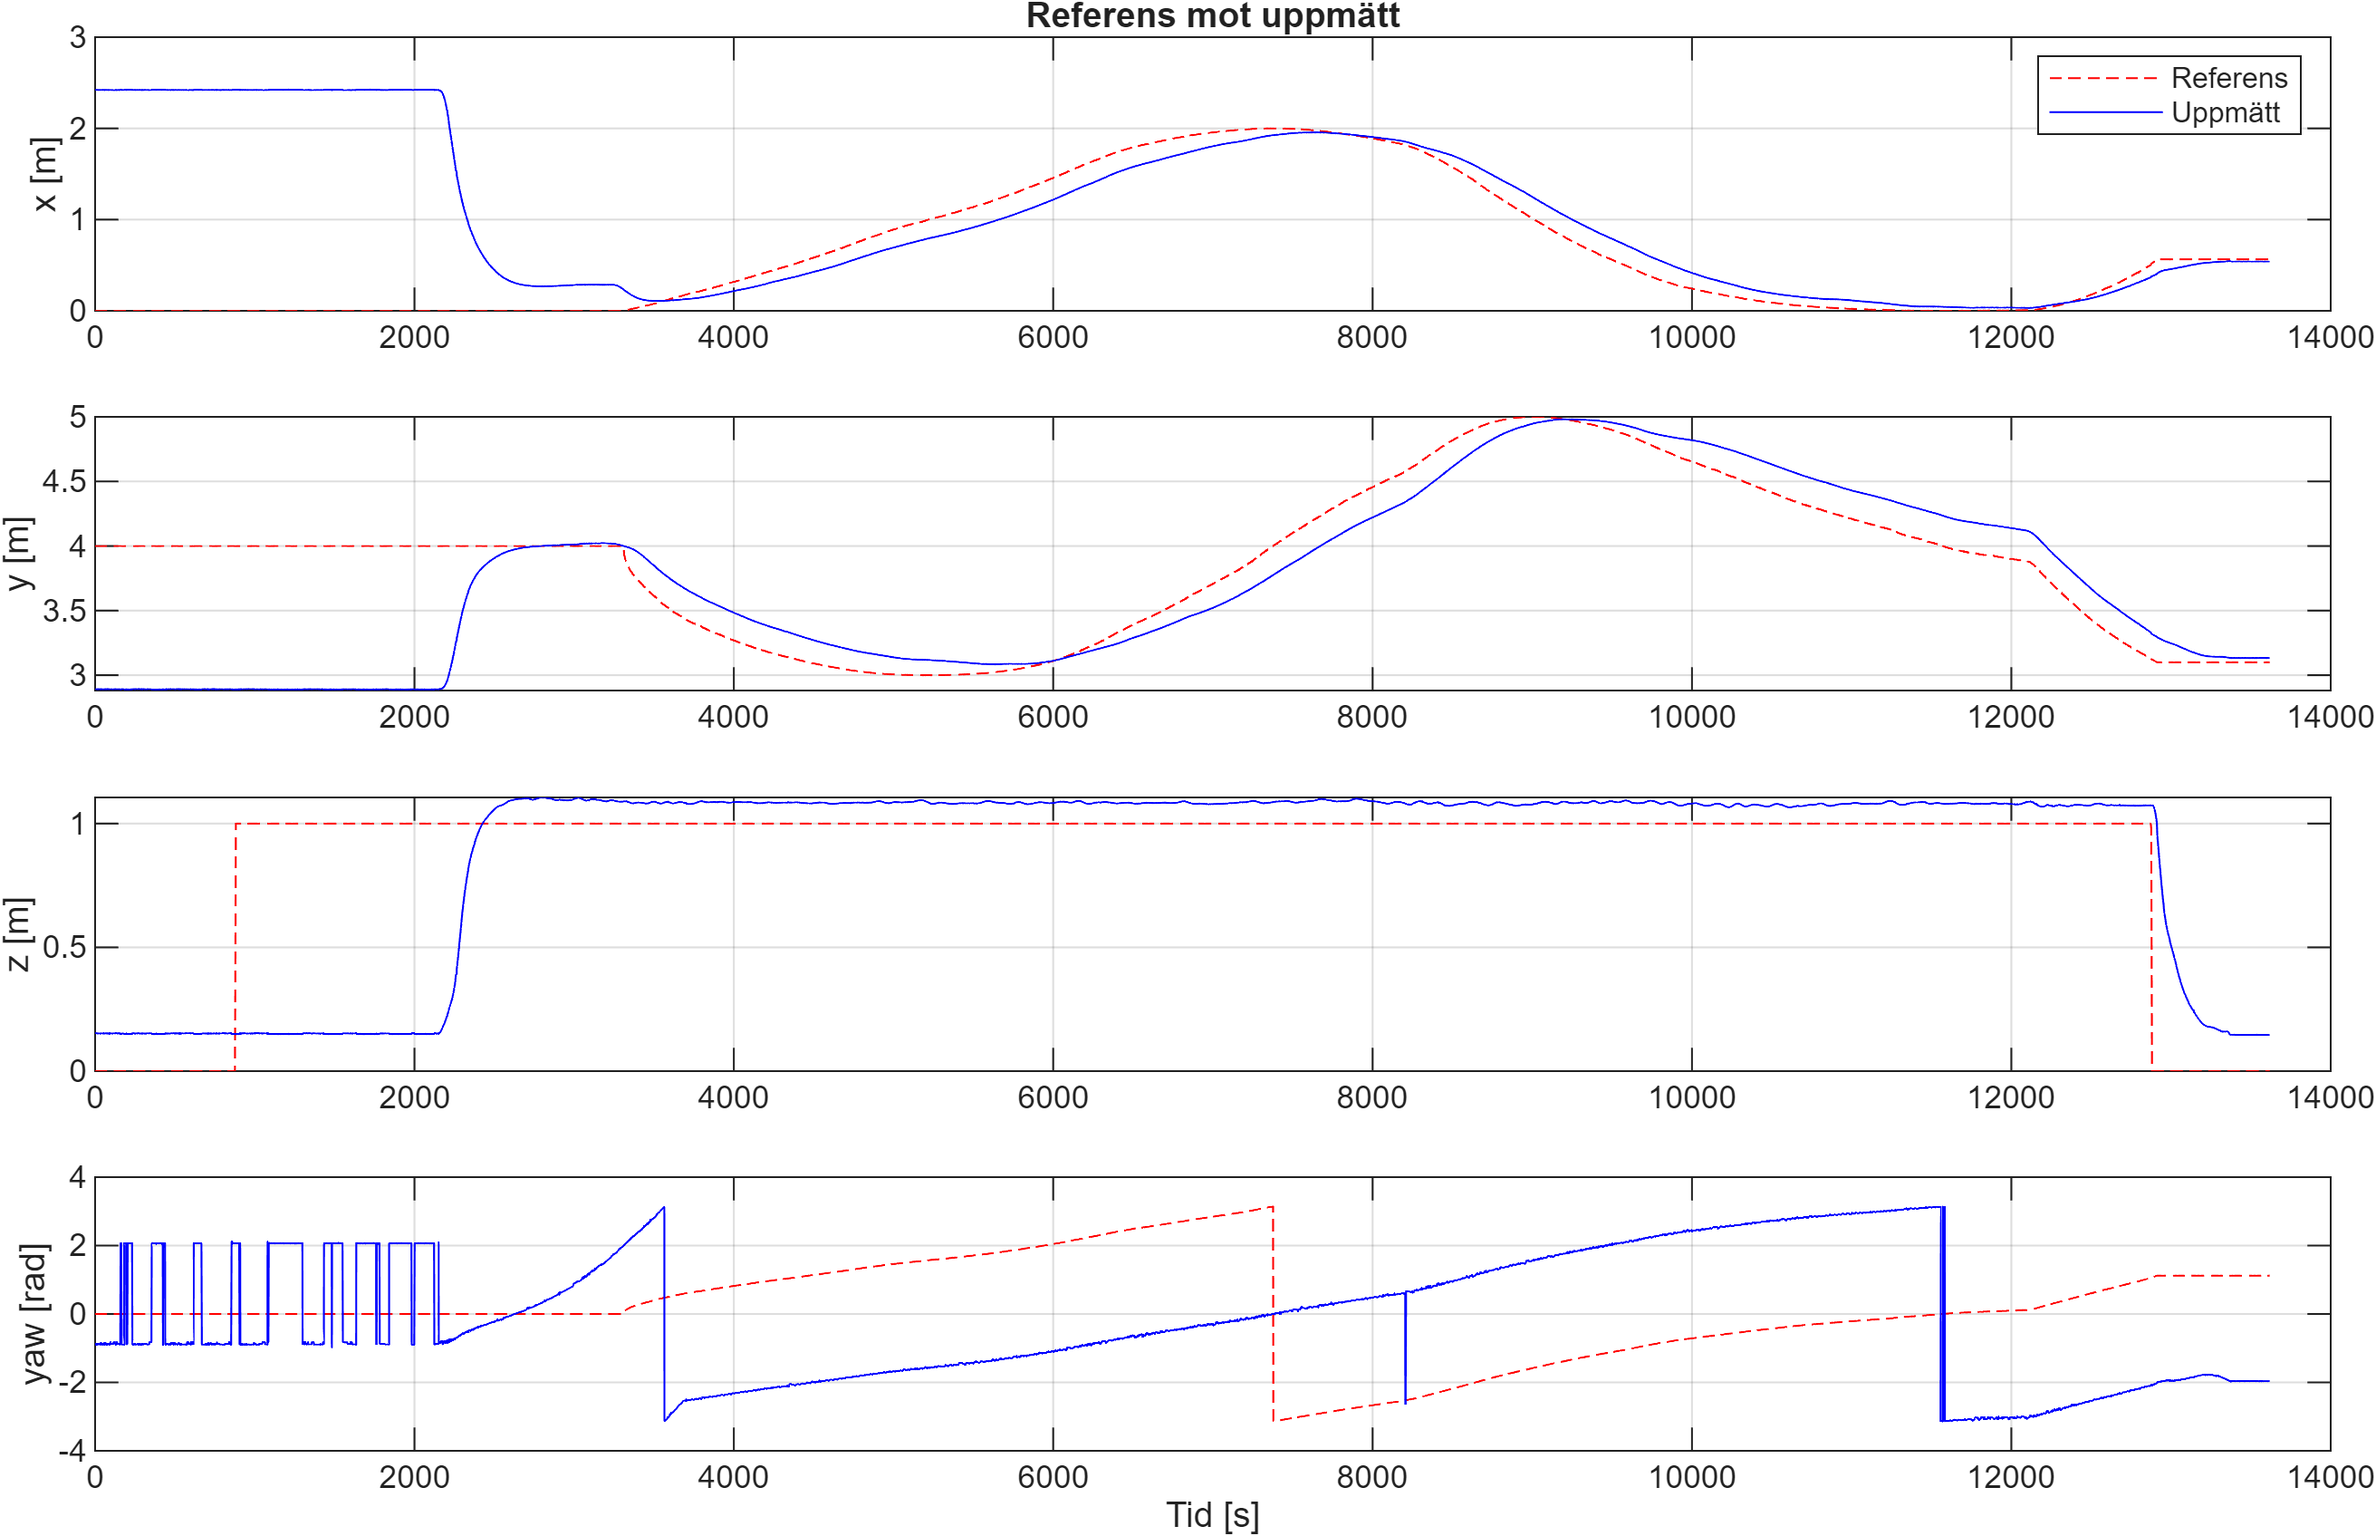
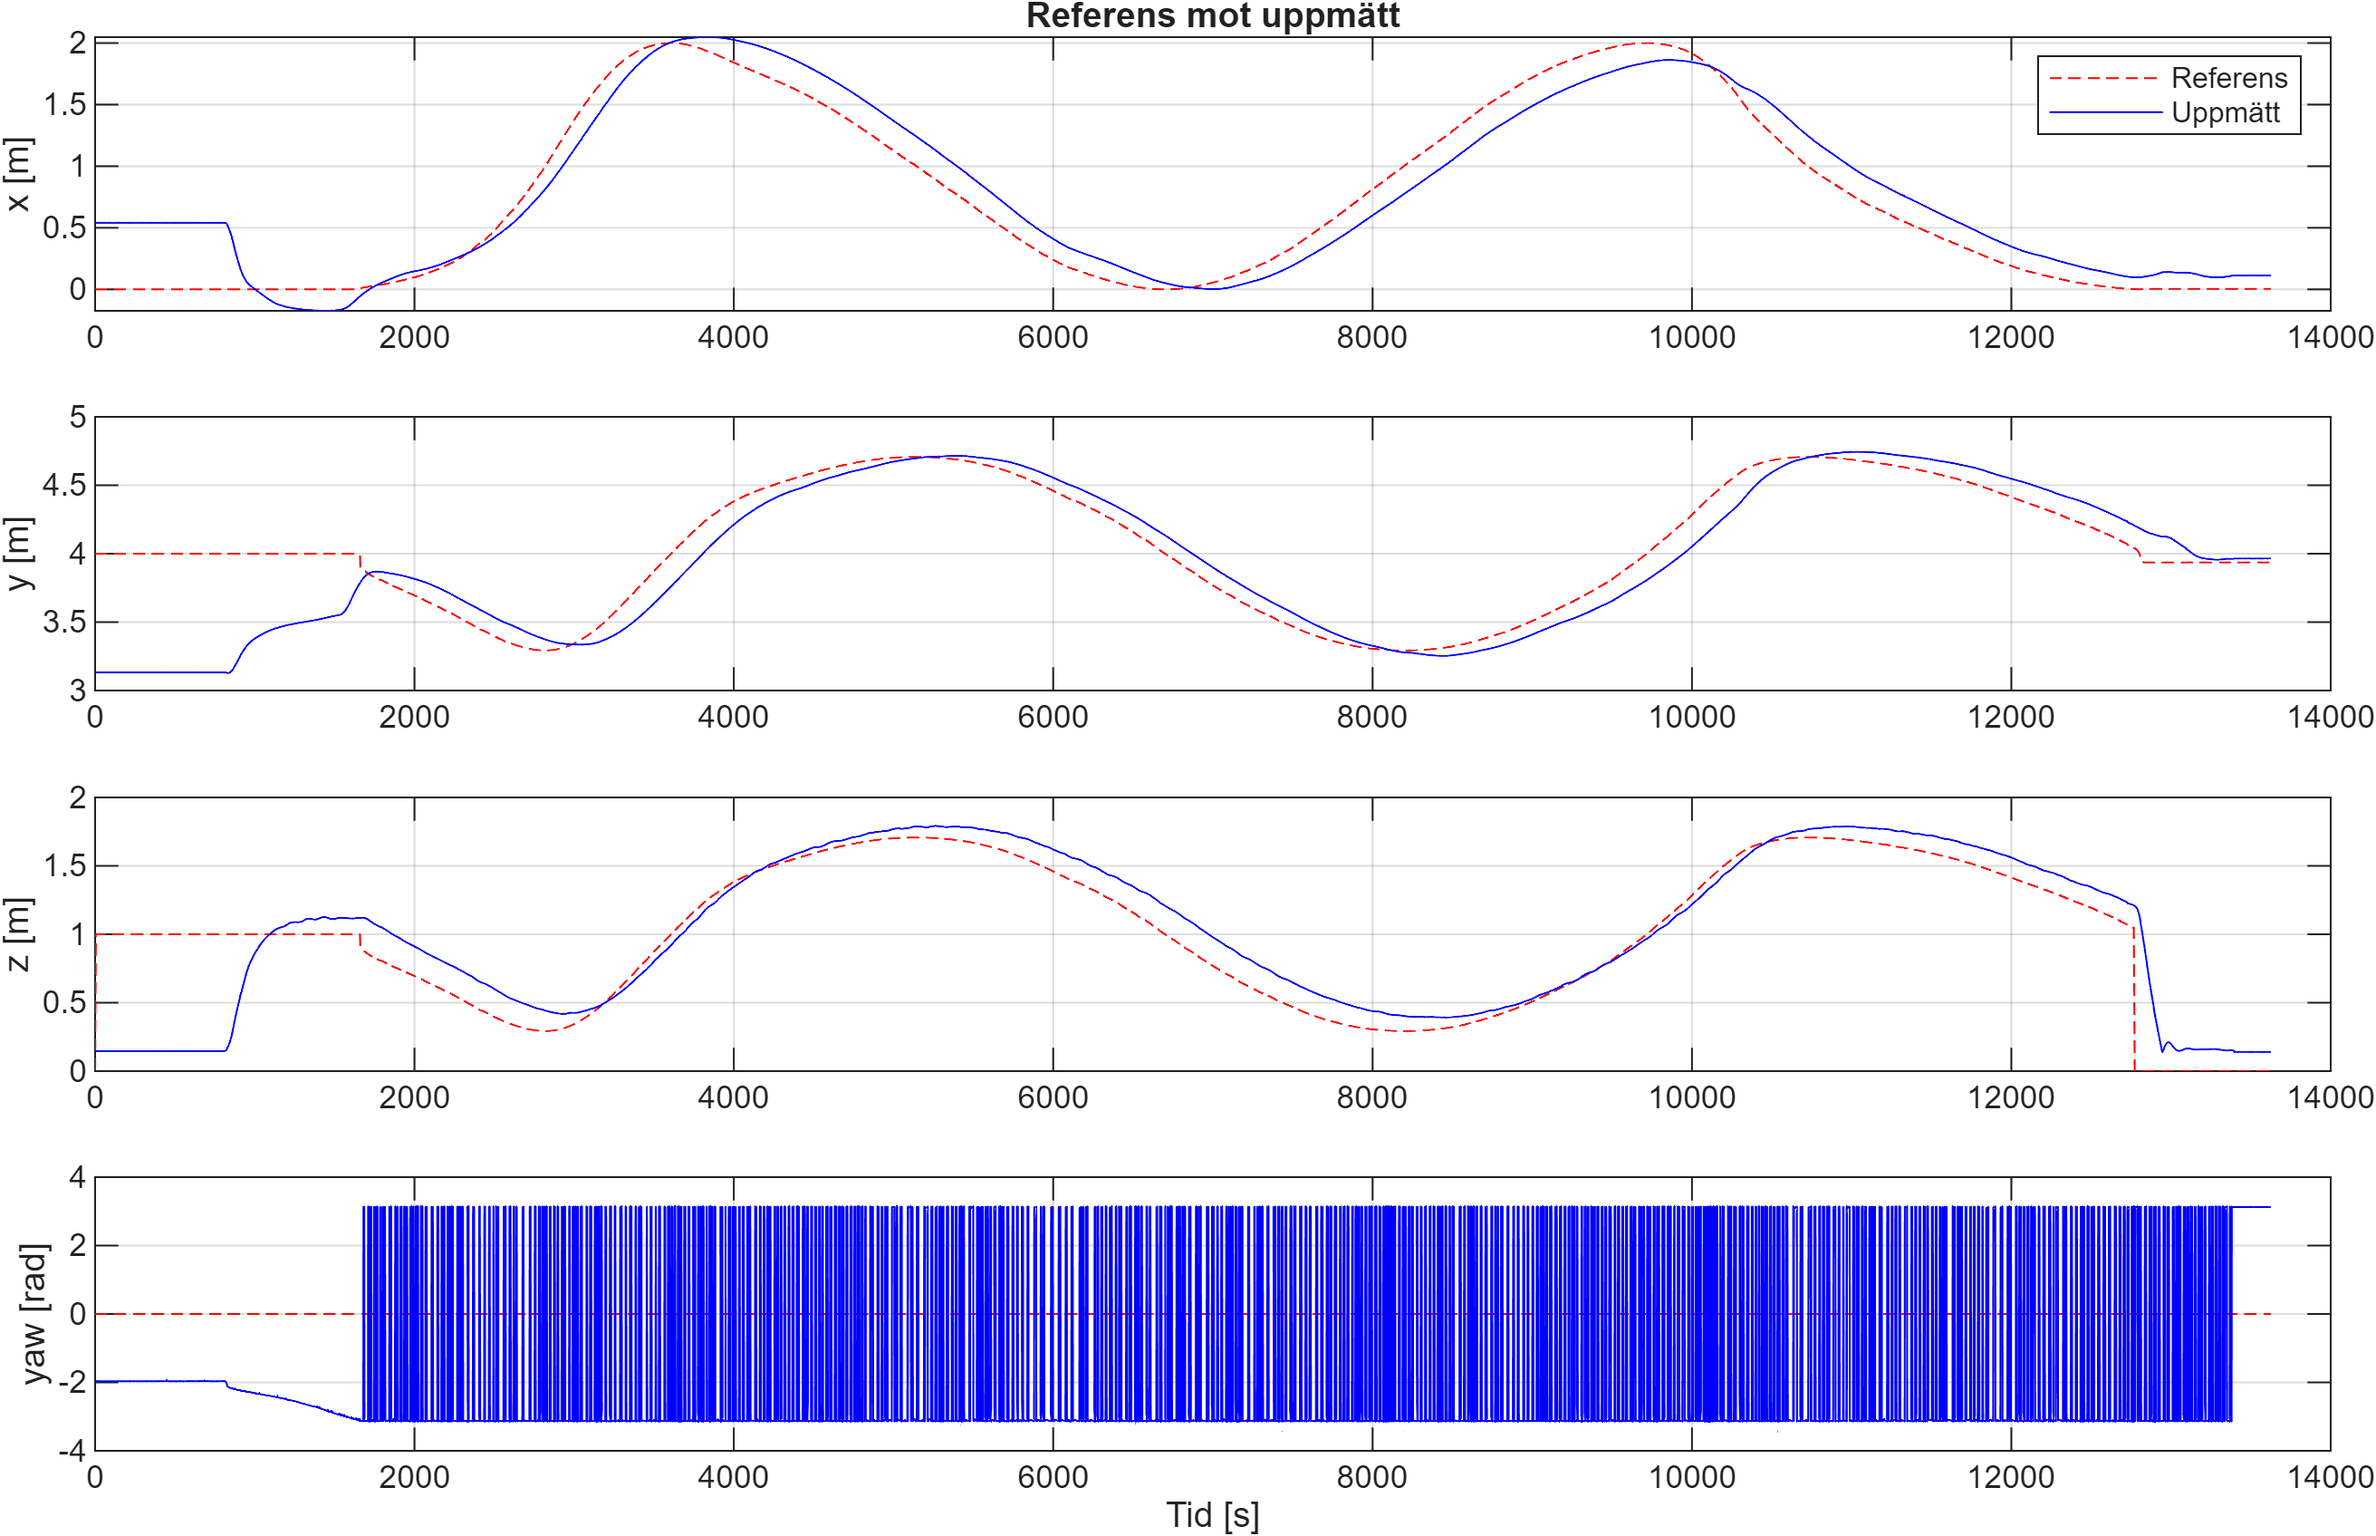
plots

diff --git a/PhysicalLab_Completed/v2/Drone/v2/davidochgustav/plot_lab12.m b/PhysicalLab_Completed/v2/Drone/v2/davidochgustav/plot_lab12.m
@@ -1,0 +1,33 @@
+t = logg_xy.Time;
+a = logg_xy.Data;
+b = logg_z.Data;
+
+figure(1); clf
+subplot(4,1,1); plot(t, a(:,1), 'r--', t, a(:,3), 'b'); grid on; ylabel('x [m]')
+legend('Referens', 'Uppmätt'); title('Referens mot uppmätt')
+subplot(4,1,2); plot(t, a(:,2), 'r--', t, a(:,4), 'b'); grid on; ylabel('y [m]')
+subplot(4,1,3); plot(t, b(:,1), 'r--', t, b(:,2), 'b'); grid on; ylabel('z [m]')
+subplot(4,1,4); plot(t, a(:,8), 'r--', t, a(:,5), 'b'); grid on; ylabel('yaw [rad]')
+xlabel('Tid [s]')
+
+figure(2); clf
+plot(a(:,3), a(:,4), 'b'); hold on
+plot(a(end,1), a(end,2), 'rx', 'MarkerSize', 12, 'LineWidth', 2)
+axis equal; grid on
+xlabel('x [m]'); ylabel('y [m]')
+legend('Uppmätt bana', 'Mål'); title('Bana i XY-planet')
+
+load('lutad.mat')      % ger t, a och b
+
+figure(3); clf
+plot3(a(:,1), a(:,2), b(:,1), 'r--', 'LineWidth', 1.5); hold on
+plot3(a(:,3), a(:,4), b(:,2), 'b')
+axis equal; grid on
+xlabel('x [m]'); ylabel('y [m]'); zlabel('z [m]')
+legend('Referens', 'Uppmätt'); title('Lutad cirkel i 3D')
+view(30, 25)
+
+exportgraphics(figure(3), 'lutad_3d.png', 'Resolution', 300)
+
+exportgraphics(figure(1), 'lab12_axlar.png', 'Resolution', 300)
+exportgraphics(figure(2), 'lab12_xy.png', 'Resolution', 300)

diff --git a/v2/davidochgustav/plot_lab12.m b/v2/davidochgustav/plot_lab12.m
@@ -17,7 +17,7 @@ axis equal; grid on
 xlabel('x [m]'); ylabel('y [m]')
 legend('Uppmätt bana', 'Mål'); title('Bana i XY-planet')
 
-load('fyrkant.mat')      % ger t, a och b
+load('lutad.mat')      % ger t, a och b
 
 figure(3); clf
 plot3(a(:,1), a(:,2), b(:,1), 'r--', 'LineWidth', 1.5); hold on

diff --git a/README.md b/README.md
@@ -45,10 +45,12 @@ Röd streckad linje = referens, blå linje = uppmätt bana (Vicon).
 
 ### Lutad cirkel (45°)
 
-<p align="center">
-  <img src="v2/davidochgustav/lutad.jpg" width="520"><br>
-  <sub>Bana i XY-planet – uppifrån blir den lutade cirkeln en ellips</sub>
-</p>
+<table>
+  <tr>
+    <td align="center"><img src="v2/davidochgustav/lutad.jpg" width="420"><br><sub>Bana i XY-planet – uppifrån blir den lutade cirkeln en ellips</sub></td>
+    <td align="center"><img src="v2/davidochgustav/lutad_3d.png" width="420"><br><sub>Bana i 3D – cirkeln lutad 45°</sub></td>
+  </tr>
+</table>
 
 ---
 
